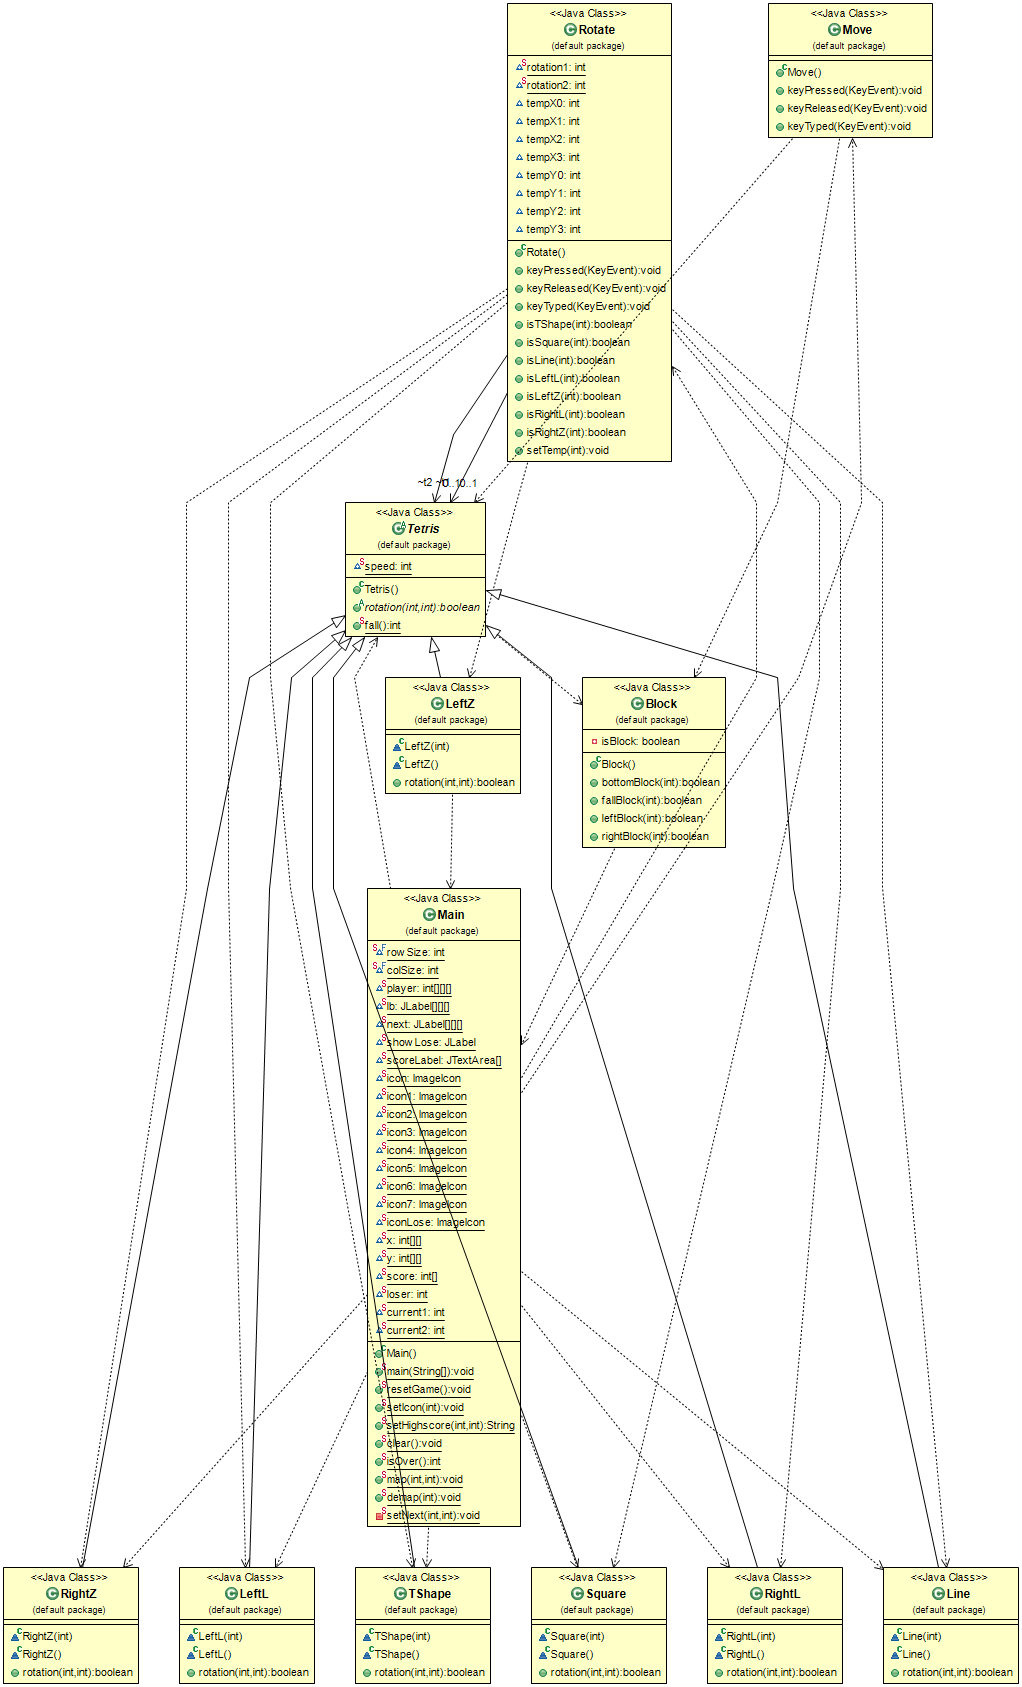
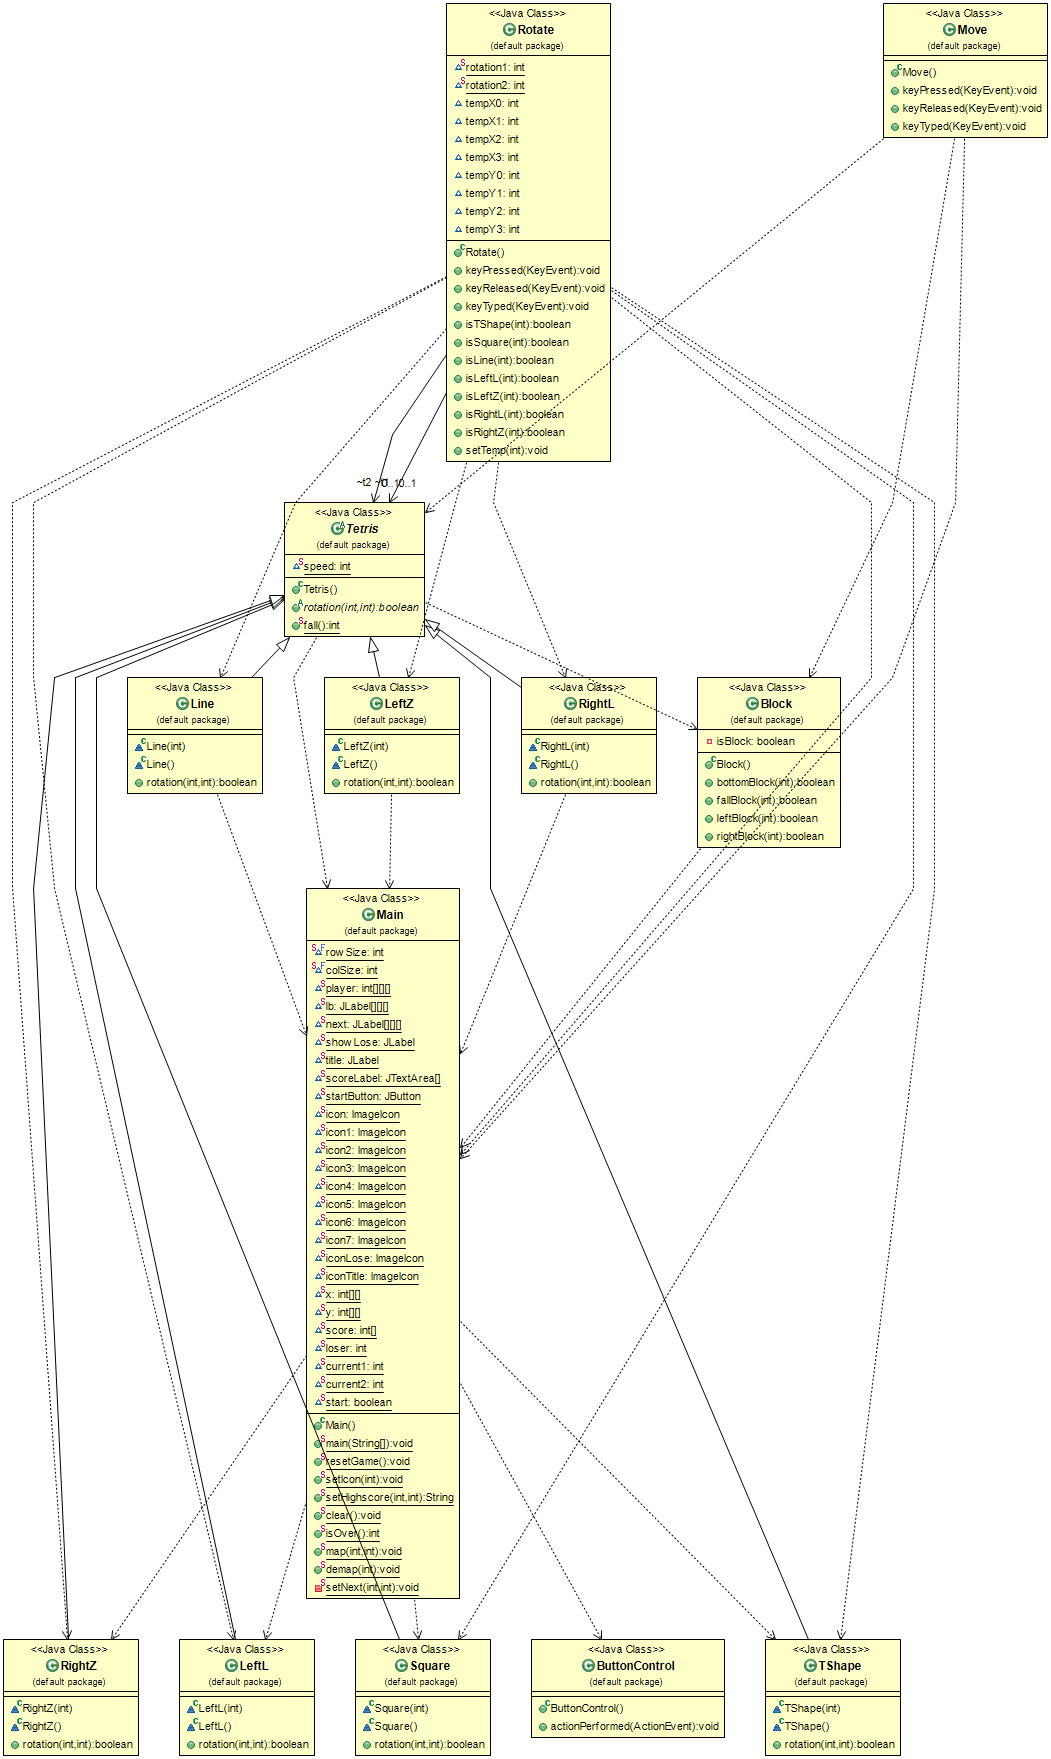
Final - Main Menu

diff --git a/Final/src/Main.java b/Final/src/Main.java
@@ -11,6 +11,7 @@ import java.util.Random;
 import java.util.Scanner;
 
 import javax.swing.ImageIcon;
+import javax.swing.JButton;
 import javax.swing.JFrame;
 import javax.swing.JLabel;
 import javax.swing.JOptionPane;
@@ -23,7 +24,9 @@ public class Main {
 	static JLabel[][][] lb = new JLabel[2][rowSize][colSize];
 	static JLabel[][][] next = new JLabel[2][4][3];
 	static JLabel showLose = new JLabel();
+	static JLabel title = new JLabel();
 	static JTextArea[] scoreLabel = new JTextArea[2];
+	static JButton startButton = new JButton();
 	static ImageIcon icon = new ImageIcon("t1.png");
 	static ImageIcon icon1 = new ImageIcon("t.png");
 	static ImageIcon icon2 = new ImageIcon("t2.png");
@@ -33,11 +36,13 @@ public class Main {
 	static ImageIcon icon6 = new ImageIcon("t6.png");
 	static ImageIcon icon7 = new ImageIcon("t7.png");
 	static ImageIcon iconLose = new ImageIcon("lose.jpg");
+	static ImageIcon iconTitle = new ImageIcon("title.jpg");
 	static int[][] x = new int[2][4];
 	static int[][] y = new int[2][4];
 	static int[] score = new int[2];
 	static int loser;
 	static int current1, current2;
+	static boolean start;
 
 	public static void main(String[] args) {
 		int rand1;
@@ -48,16 +53,37 @@ public class Main {
 		Move mov = new Move();
 		Rotate rot = new Rotate();
 		JFrame frame = new JFrame();
+		start = false;
 		frame.setSize(1400, 870);
 		frame.setDefaultCloseOperation(JFrame.EXIT_ON_CLOSE);
 		frame.addKeyListener(mov);
 		frame.addKeyListener(rot);
 		frame.add(showLose);
+		frame.add(title);
+		frame.add(startButton);
 		showLose.setIcon(iconLose);
 		showLose.setSize(showLose.getPreferredSize());
 		showLose.setVisible(false);
-
+		title.setIcon(iconTitle);
+		title.setSize(title.getPreferredSize());
+		title.setLocation(frame.getSize().width / 2 - title.getSize().width / 2, 300);
+		startButton.setText("Start Game");
+		startButton.setSize(startButton.getPreferredSize());
+		startButton.setLocation(frame.getSize().width / 2 - startButton.getSize().width / 2, 550);
+		startButton.addActionListener(new ButtonControl());
 		frame.setLayout(null);
+		frame.setVisible(true);
+		while (start == false) {
+			try {
+				Thread.sleep(500);
+			} catch (InterruptedException e) {
+				// TODO Auto-generated catch block
+				e.printStackTrace();
+			}
+		}
+		title.setVisible(false);
+		startButton.setVisible(false);
+
 		for (int i = 0; i < 2; i++) {
 			for (int j = 0; j < 10; j++) {
 				for (int k = 0; k < 20; k++) {
@@ -120,7 +146,7 @@ public class Main {
 				frame.add(next[1][i][j]);
 			}
 		}
-		frame.setVisible(true);
+		frame.repaint();
 
 		while (true) {
 			randNext1 = ran.nextInt(7) + 1;

diff --git a/Final/src/ButtonControl.java b/Final/src/ButtonControl.java
@@ -1,0 +1,14 @@
+import java.awt.event.ActionEvent;
+import java.awt.event.ActionListener;
+
+public class ButtonControl implements ActionListener {
+
+	@Override
+	public void actionPerformed(ActionEvent e) {
+		// TODO Auto-generated method stub
+		if (e.getActionCommand().equals("Start Game")) {
+			Main.start = true;
+		}
+	}
+
+}
